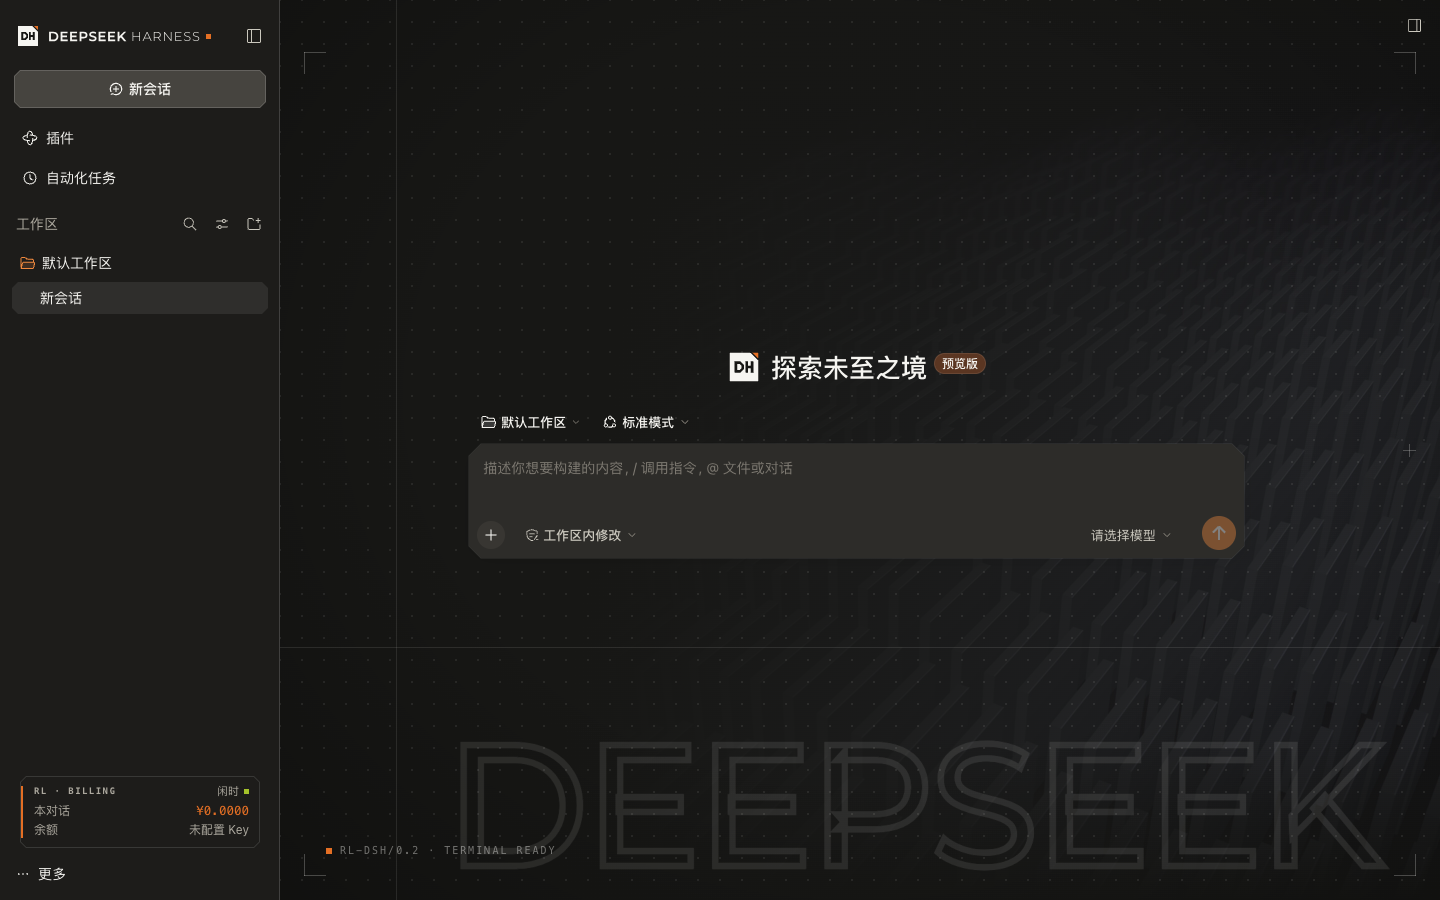
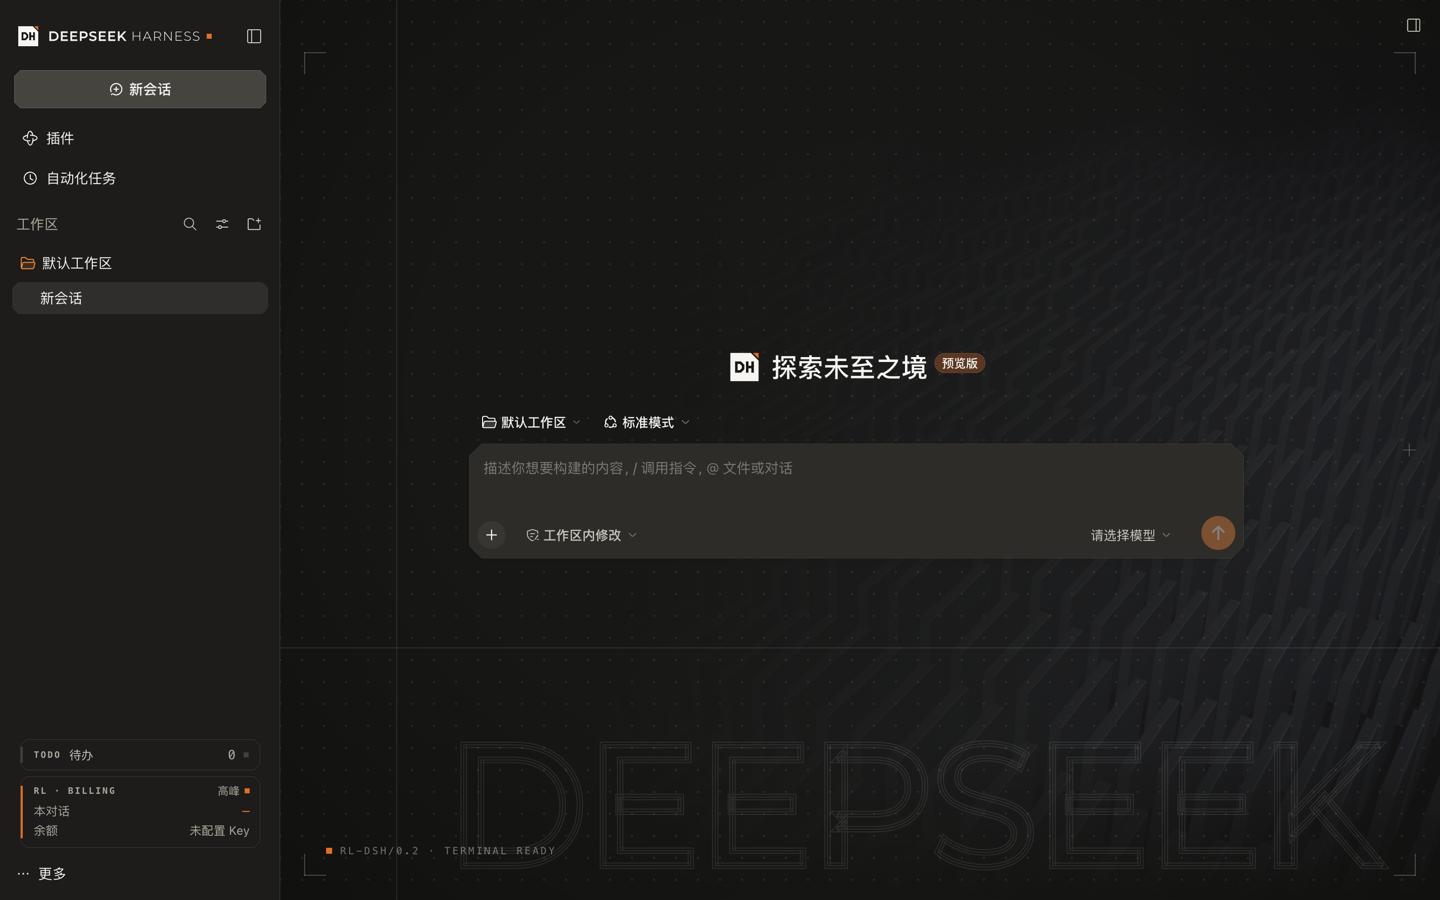
docs: cover macOS and Windows in README, refresh home screenshots

diff --git a/README.md b/README.md
@@ -29,11 +29,11 @@ DeepSeek Harness 的莱茵生命风格主题，包括开屏动画、界面配色
 | 开屏动画 | ![浅色开屏动画](screenshots/splash-light.png) | ![深色开屏动画](screenshots/splash-dark.png) |
 | 主界面 | ![浅色主界面](screenshots/home-light.png) | ![深色主界面](screenshots/home-dark.png) |
 
-开屏动画截图来自本仓库的预览页面。主界面截图来自 DeepSeek Harness 网页版 0.2.1-rc.2 的全新配置（未登录、未配置 API Key），空白页背景为「完整开屏底」。由于没有可用的模型，截图中不显示推理强度滑块。
+开屏动画截图来自本仓库的预览页面。主界面截图来自 DeepSeek Harness 网页版 0.2.1-rc.2 的全新配置（未登录、未配置 API Key），使用默认的莱茵橙强调色和暖白底色，空白页背景为「完整开屏底」，左下角是待办条和计费卡片。由于没有可用的模型，截图中不显示推理强度滑块。
 
 ## 环境要求
 
-- DeepSeek Harness 桌面版或网页版 0.2.1-rc.2。
+- DeepSeek Harness 桌面版（macOS、Windows）或网页版 0.2.1-rc.2。
 - 在网页版中通过命令行安装时，终端里需要能使用 `pnpm`。
 
 ## 安装
@@ -46,11 +46,16 @@ DeepSeek Harness 的莱茵生命风格主题，包括开屏动画、界面配色
 
 本组合包没有依赖，也不运行安装脚本，因此安装时不会要求你确认版本豁免或允许构建脚本。
 
+下文说的「完全退出 Harness」：
+
+- **macOS**：按 <kbd>⌘</kbd> + <kbd>Q</kbd>。
+- **Windows**：关闭窗口只会把 Harness 缩到系统托盘，任务还在后台运行。请在 Harness 的应用菜单中选择「退出」，或在系统托盘中右键 Harness 图标，选择「退出 DeepSeek Harness」。
+
 ### 在插件页安装
 
 1. 在 Harness 侧栏点击 **插件**，然后点击 **添加插件**。
 2. 输入 `<来源>`，点击 **安装**。安装完成后，点击 **立即启用**。
-3. 按 <kbd>⌘</kbd> + <kbd>Q</kbd> 完全退出 Harness，然后重新打开。
+3. 完全退出 Harness，然后重新打开。
 
 ### 让 dsh agent 安装
 
@@ -60,7 +65,7 @@ DeepSeek Harness 的莱茵生命风格主题，包括开屏动画、界面配色
 
 ### 使用命令行安装
 
-1. 如果终端里还没有 `dsh` 命令，在菜单栏中选择 **DeepSeek Harness** > **管理 dsh 命令…** > **安装**。
+1. 如果终端里还没有 `dsh` 命令，先在 Harness 中安装：macOS 在菜单栏中选择 **DeepSeek Harness** > **管理 dsh 命令…**，Windows 在 Harness 的应用菜单中选择 **管理 dsh 命令…**，然后点击 **安装**。
 2. 完全退出 Harness。Harness 运行时会锁定配置，命令行无法写入。
 3. 运行以下命令。路径中有空格时，请保留引号：
 
@@ -149,7 +154,7 @@ dsh plugin --profile desktop remove dsh-rhine-splash
 
 - **离开 30 秒后**（`away`，默认）：切到别的应用、最小化或隐藏，离开超过 30 秒再回来时播放。来回快速切换不会触发。
 - **每次切回**（`always`）：窗口每次重新获得焦点都播放。
-- **最小化或隐藏后**（`hidden`）：只有窗口被最小化、按 <kbd>⌘</kbd> + <kbd>H</kbd> 隐藏或切到别的桌面后再回来才播放。
+- **最小化或隐藏后**（`hidden`）：只有窗口被最小化、隐藏（macOS 的「隐藏」，或 Windows 上关闭窗口缩到系统托盘）或切到别的桌面后再回来才播放。
 
 设置页的「预览切回动效」可以直接看效果。系统开启「减弱动态效果」时不播放。不需要时，把「切回动效」设为「关闭」。
 
@@ -163,11 +168,11 @@ dsh plugin --profile desktop remove dsh-rhine-splash
 
 「通知方式」决定怎么提醒：
 
-- **系统通知**（`notifySystem`）：窗口不在前台时，在 macOS 通知中心弹出通知，内容是对话标题和状态（「运行结束」「等待授权」「等待回答」「计划待审」），不包含对话内容。点击通知会回到 Harness 并打开这个对话。
+- **系统通知**（`notifySystem`）：窗口不在前台时，通过系统通知弹出提醒（macOS 显示在通知中心，Windows 显示在通知区域），内容是对话标题和状态（「运行结束」「等待授权」「等待回答」「计划待审」），不包含对话内容。点击通知会回到 Harness 并打开这个对话。
 - **界面内提示**（`notifyToast`）：在窗口右上角弹出半透明的毛玻璃提示卡片。卡片出现时从左侧色条扩散出两道波纹，状态小方块向外发出方形波纹（等待授权时持续扩散），点击时从点按位置漾开一圈水波。点击即可跳到对应对话，约 8 秒后自动消失（鼠标停留时暂停）。窗口失焦但仍在屏幕上时立即显示；窗口被隐藏或最小化时，提示会等你回来再显示。
 - **提示音**（`notifySound`）：运行结束时两声上扬的短音，等待授权时三声短促提示。
 
-系统通知只在应用失焦或在后台时发送；在 Harness 里时用界面内提示。各项都可以在设置页分别关闭，「预览通知」可以直接看效果。如果桌面版收不到系统通知，请在 macOS「系统设置 → 通知」中允许 DeepSeek Harness 发送通知。网页版首次使用系统通知时，点「预览通知」后浏览器会请求通知权限；如果系统或浏览器拒绝了通知权限，界面内提示和提示音不受影响。
+系统通知只在应用失焦或在后台时发送；在 Harness 里时用界面内提示。各项都可以在设置页分别关闭，「预览通知」可以直接看效果。如果桌面版收不到系统通知，请在系统设置中允许 DeepSeek Harness 发送通知：macOS 在「系统设置 → 通知」中，Windows 在「设置 → 系统 → 通知」中。网页版首次使用系统通知时，点「预览通知」后浏览器会请求通知权限；如果系统或浏览器拒绝了通知权限，界面内提示和提示音不受影响。
 
 ### 待办中心
 
@@ -208,7 +213,7 @@ dsh plugin --profile desktop remove dsh-rhine-splash
 
 Harness 本身只能归档对话，不能删除。安装本插件后，已归档对话的「…」菜单最下方会多出红色的「删除对话」：点一次变成「再点一次确认删除」，4 秒内再点一次才会执行。
 
-- 删除只是把这个对话的记录文件夹移到废纸篓（macOS 系统废纸篓；无法写入时，或在其他系统上，移到 `~/.dsh/trash`），需要时可以移回原位找回。
+- 删除只是把这个对话的记录文件夹移到废纸篓（macOS 移到系统废纸篓，无法写入时改为 `~/.dsh/trash`；Windows 移到 `%USERPROFILE%\.dsh\trash`），需要时可以移回原位找回。
 - 只能删除已归档的对话。本次启动后打开过的对话正在被 Harness 使用，需要重启 Harness 后再删除。
 - 删除后对话会在下次启动 Harness 时从列表中消失。
 
@@ -226,7 +231,7 @@ Harness 本身只能归档对话，不能删除。安装本插件后，已归档
 
 ### 编辑配置文件
 
-你也可以直接编辑 `~/.dsh/profiles/desktop/cordis.patch.yml`（网页版为 `~/.dsh/profiles/web/cordis.patch.yml`）。保留文件原有内容，在末尾添加类似下面的配置，保存后重启 Harness：
+你也可以直接编辑 `~/.dsh/profiles/desktop/cordis.patch.yml`（网页版为 `~/.dsh/profiles/web/cordis.patch.yml`；Windows 上 `~` 指 `%USERPROFILE%`，即 `C:\Users\<用户名>`）。保留文件原有内容，在末尾添加类似下面的配置，保存后重启 Harness：
 
 ```yaml
 - id: rhine-splash
@@ -302,7 +307,7 @@ Harness 本身只能归档对话，不能删除。安装本插件后，已归档
 
 **安装后没有看到开屏动画**
 
-开屏动画只在 Harness 启动时播放。请确认插件已启用，然后按 <kbd>⌘</kbd> + <kbd>Q</kbd> 完全退出 Harness，再重新打开。只关闭窗口或刷新页面，不会触发开屏动画。
+开屏动画只在 Harness 启动时播放。请确认插件已启用，然后[完全退出 Harness](#安装)，再重新打开。只关闭窗口或刷新页面，不会触发开屏动画；Windows 上关闭窗口只会缩到系统托盘。
 
 **命令行提示 `Open DeepSeek Harness Desktop once to initialize its profile, then fully quit it`**
 
@@ -310,7 +315,9 @@ Harness 本身只能归档对话，不能删除。安装本插件后，已归档
 
 **终端里找不到 `dsh` 命令**
 
-在菜单栏中选择 **DeepSeek Harness** > **管理 dsh 命令…** > **安装**。也可以直接使用完整路径：
+在 Harness 中安装 `dsh` 命令：macOS 在菜单栏中选择 **DeepSeek Harness** > **管理 dsh 命令…**，Windows 在 Harness 的应用菜单中选择 **管理 dsh 命令…**，然后点击 **安装**。
+
+在 macOS 上也可以直接使用完整路径：
 
 ```bash
 "/Applications/DeepSeek Harness.app/Contents/Resources/runtime/cli/bin/dsh" plugin --profile desktop add "<来源>"
@@ -398,7 +405,7 @@ Harness 更新后，可以检查插件依赖的接口是否还在：
 npm run check-dsh
 ```
 
-它只读取、不修改本机安装的 Harness（默认是 `/Applications/DeepSeek Harness.app` 中的 `app.asar`，也可以在命令末尾传入其他 `app.asar` 或解包目录的路径），逐项列出每个功能用到的插槽、服务和事件名。有缺失时会列出缺少的名称，并以非零状态退出。
+它只读取、不修改本机安装的 Harness（macOS 默认读取 `/Applications/DeepSeek Harness.app` 中的 `app.asar`；Windows 请在命令末尾传入 Harness 安装目录下 `resources\app.asar` 的路径，也可以传入解包后的目录），逐项列出每个功能用到的插槽、服务和事件名。有缺失时会列出缺少的名称，并以非零状态退出。
 
 ### 图片素材
 

diff --git a/AGENTS.md b/AGENTS.md
@@ -22,7 +22,7 @@ A DeepSeek Harness (dsh) **bundle** that plays a Rhine Lab style boot splash in 
    - Present and enabled → already installed. Tell the user and stop.
    - Present but disabled → call `{ "action": "set_bundle", "target": "dsh-rhine-splash", "enabled": true }`, then go to step 3.
 2. Call `{ "action": "install_bundle", "target": "<source>" }`, where `<source>` is the absolute repository path when you are inside a clone, and otherwise `github:Respawn-ID/dsh-rhine-splash`. Pass paths exactly, spaces included, without quotes. The bundle is enabled by default. If GitHub is unreachable, ask the user to download the release `.tgz` and install from its path.
-3. Tell the user to fully quit DeepSeek Harness (⌘Q) and reopen it to see the splash.
+3. Tell the user to fully quit DeepSeek Harness and reopen it to see the splash. On macOS that is ⌘Q; on Windows closing the window only hides it to the system tray, so quit from the app menu (退出) or the tray icon's menu (退出 DeepSeek Harness).
 
 Each call asks the user for approval; that is expected. If `plugin_manager` is not available in this session, do not edit profile files by hand. Tell the user to either switch the session to the **Creator** preset or install from the sidebar: **插件 → 添加插件**, paste the repository path, then **立即启用** and restart.
 
@@ -34,9 +34,9 @@ Run this only if the user asks for a terminal install. The desktop app must be f
 dsh plugin --profile desktop add "<absolute repository path>"
 ```
 
-- If `dsh` is not on PATH, use `"/Applications/DeepSeek Harness.app/Contents/Resources/runtime/cli/bin/dsh"`, or ask the user to run the menu item **DeepSeek Harness → 管理 dsh 命令… → 安装**.
+- If `dsh` is not on PATH, on macOS use `"/Applications/DeepSeek Harness.app/Contents/Resources/runtime/cli/bin/dsh"`; on either platform ask the user to install it from the app (macOS menu bar or the Windows app menu) **管理 dsh 命令… → 安装**.
 - The error `Open DeepSeek Harness Desktop once to initialize its profile, then fully quit it` means the app has never run, or it is still running.
-- A successful install adds `dsh-rhine-splash` to `dsh.profile.bundles` in `~/.dsh/profiles/desktop/package.json`. That file is the read-only way to verify the install.
+- A successful install adds `dsh-rhine-splash` to `dsh.profile.bundles` in `~/.dsh/profiles/desktop/package.json` (`~` is `%USERPROFILE%` on Windows). That file is the read-only way to verify the install.
 - Web app (`dsh web`): stop it, then run `dsh plugin --profile web add "<source>"` and start `dsh web` again. dsh calls the `pnpm` on PATH; if it is missing, tell the user rather than installing it. Paths and verification are the same with `web` in place of `desktop`.
 
 ## Configure
@@ -83,7 +83,7 @@ Use `plugin_manager` `{ "action": "remove_bundle", "target": "dsh-rhine-splash" 
 
 ## Never
 
-- Modify anything inside `/Applications/DeepSeek Harness.app` (signed, integrity-checked).
+- Modify anything inside the installed app (`/Applications/DeepSeek Harness.app` on macOS, the install directory on Windows; signed, integrity-checked).
 - Hand-edit `~/.dsh/profiles/desktop/package.json` or `pnpm-workspace.yaml`.
 - Grant version exemptions, or pass `approvedBuilds`.
 - Run `npm run assets` unless asked. It takes about 30 s, uses about 1 GB of memory, and rewrites `assets/`.
